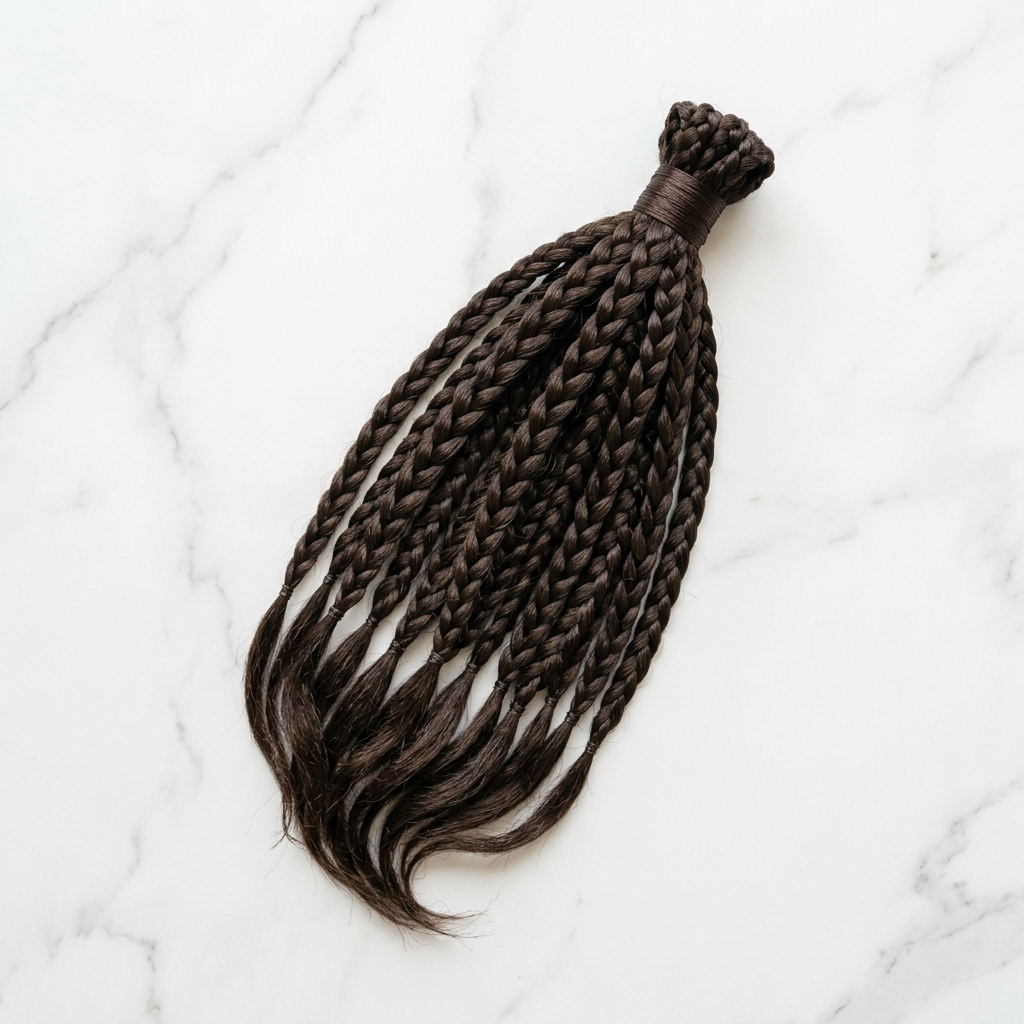
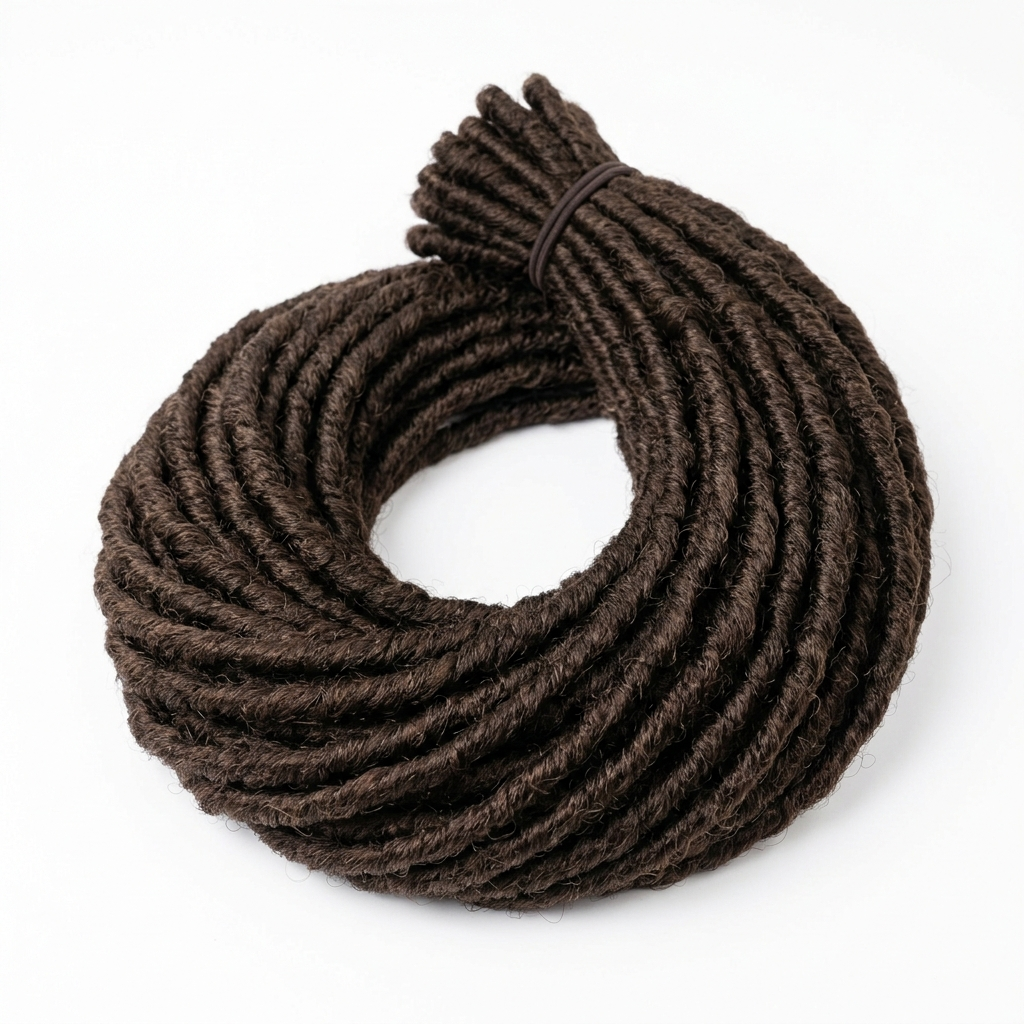
Faux Locks : 8 images uniques correctes (locs/twists) dh36-dh43 + products.js

diff --git a/js/products.js b/js/products.js
@@ -373,7 +373,7 @@ const PRODUCTS = [
     price: 16,
     description: "Pack de 6 mèches goddess locs bouclées 20 pouces. Les goddess locs ont des bouts bouclés et ondulés qui donnent un aspect bohème et romantique. La coiffure protectrice la plus tendance du moment.",
     benefits: ['Bouts bouclés bohèmes', 'Style goddess tendance', 'Pack x6', 'Coiffure protectrice'],
-    img: 'images/dh36_faux_locks.jpg',
+    img: 'images/dh37_goddess_locs.jpg',
     stripe: 'https://buy.stripe.com/6oUaEPgHp849fHR8zYcfL0g'
   },
   {
@@ -383,7 +383,7 @@ const PRODUCTS = [
     price: 17,
     description: "Pack de 4 mèches faux locks distressed 36 pouces très longues. L'effet distressed (\"usé\") reproduit l'aspect naturel des vraies dreadlocks avec de légères irrégularités pour un rendu authentique et organique.",
     benefits: ['Très longues 36 pouces', 'Effet naturel authentique', 'Aspect dreadlocks vraies', 'Pack x4'],
-    img: 'images/dh36_faux_locks.jpg',
+    img: 'images/dh38_distressed_locs.jpg',
     stripe: 'https://buy.stripe.com/9B68wH62L98d2V52bAcfL0h'
   },
   {
@@ -393,7 +393,7 @@ const PRODUCTS = [
     price: 15,
     description: "Pack de 6 mèches faux locks boho 28 pouces avec fils de couleur et perles intégrés pour un look hippie chic. La coiffure protectrice idéale pour l'été, les festivals et tous ceux qui veulent afficher leur personnalité.",
     benefits: ['Style boho hippie', 'Fils colorés décoratifs', 'Pack x6', 'Parfait pour l\'été'],
-    img: 'images/dh36_faux_locks.jpg',
+    img: 'images/dh39_boho_locs.jpg',
     stripe: 'https://buy.stripe.com/28E4gr1Mv98d2V56rQcfL0i'
   },
   {
@@ -403,7 +403,7 @@ const PRODUCTS = [
     price: 14,
     description: "Pack de 6 mèches soft locs pré-bouclées 18 pouces. Les soft locs sont plus légères et plus douces que les faux locks classiques. Leur texture cotonneuse et leur légèreté en font la coiffure protectrice la plus confortable.",
     benefits: ['Ultra-légères et douces', 'Pré-bouclées express', 'Pack x6', 'Coiffure la plus confortable'],
-    img: 'images/dh36_faux_locks.jpg',
+    img: 'images/dh40_soft_locs.jpg',
     stripe: 'https://buy.stripe.com/3cI7sD4YH1FLgLV03scfL0j'
   },
   {
@@ -413,7 +413,7 @@ const PRODUCTS = [
     price: 13,
     description: "Pack de 6 mèches passion twist 18 pouces. Les passion twists ont une texture unique, entre le twist et les locks, avec un aspect soyeux et brillant très élégant. Coiffure protectrice tendance et facile à poser.",
     benefits: ['Texture soyeuse unique', 'Entre twist et locks', 'Aspect brillant élégant', 'Pack x6'],
-    img: 'images/dh36_faux_locks.jpg',
+    img: 'images/dh41_passion_twist.jpg',
     stripe: 'https://buy.stripe.com/6oU28j62L3NT3Z99E2cfL0k'
   },
   {
@@ -423,7 +423,7 @@ const PRODUCTS = [
     price: 12,
     description: "Pack de 6 mèches spring twist courts 10 pouces. Les spring twists ont une texture spiralée unique et très légère. Le format court 10 pouces est idéal pour une coiffure protectrice décontractée et facile à porter au quotidien.",
     benefits: ['Format court pratique', 'Texture spiralée légère', 'Pack x6', 'Idéal au quotidien'],
-    img: 'images/dh36_faux_locks.jpg',
+    img: 'images/dh42_spring_twist.jpg',
     stripe: 'https://buy.stripe.com/dRm00b8aTbgl67heYmcfL0l'
   },
   {
@@ -433,7 +433,7 @@ const PRODUCTS = [
     price: 16,
     description: "Pack de 6 mèches butterfly locs 20 pouces. Les butterfly locs sont caractérisées par leurs boucles désordonnées et légères qui évoquent des ailes de papillon. LA coiffure tendance des réseaux sociaux en 2024-2025.",
     benefits: ['LA coiffure tendance', 'Boucles légères papillon', 'Viral sur réseaux sociaux', 'Pack x6'],
-    img: 'images/dh36_faux_locks.jpg',
+    img: 'images/dh43_butterfly_locs.jpg',
     stripe: 'https://buy.stripe.com/dRmbIT76Pdot0MX5nMcfL0m'
   },
 